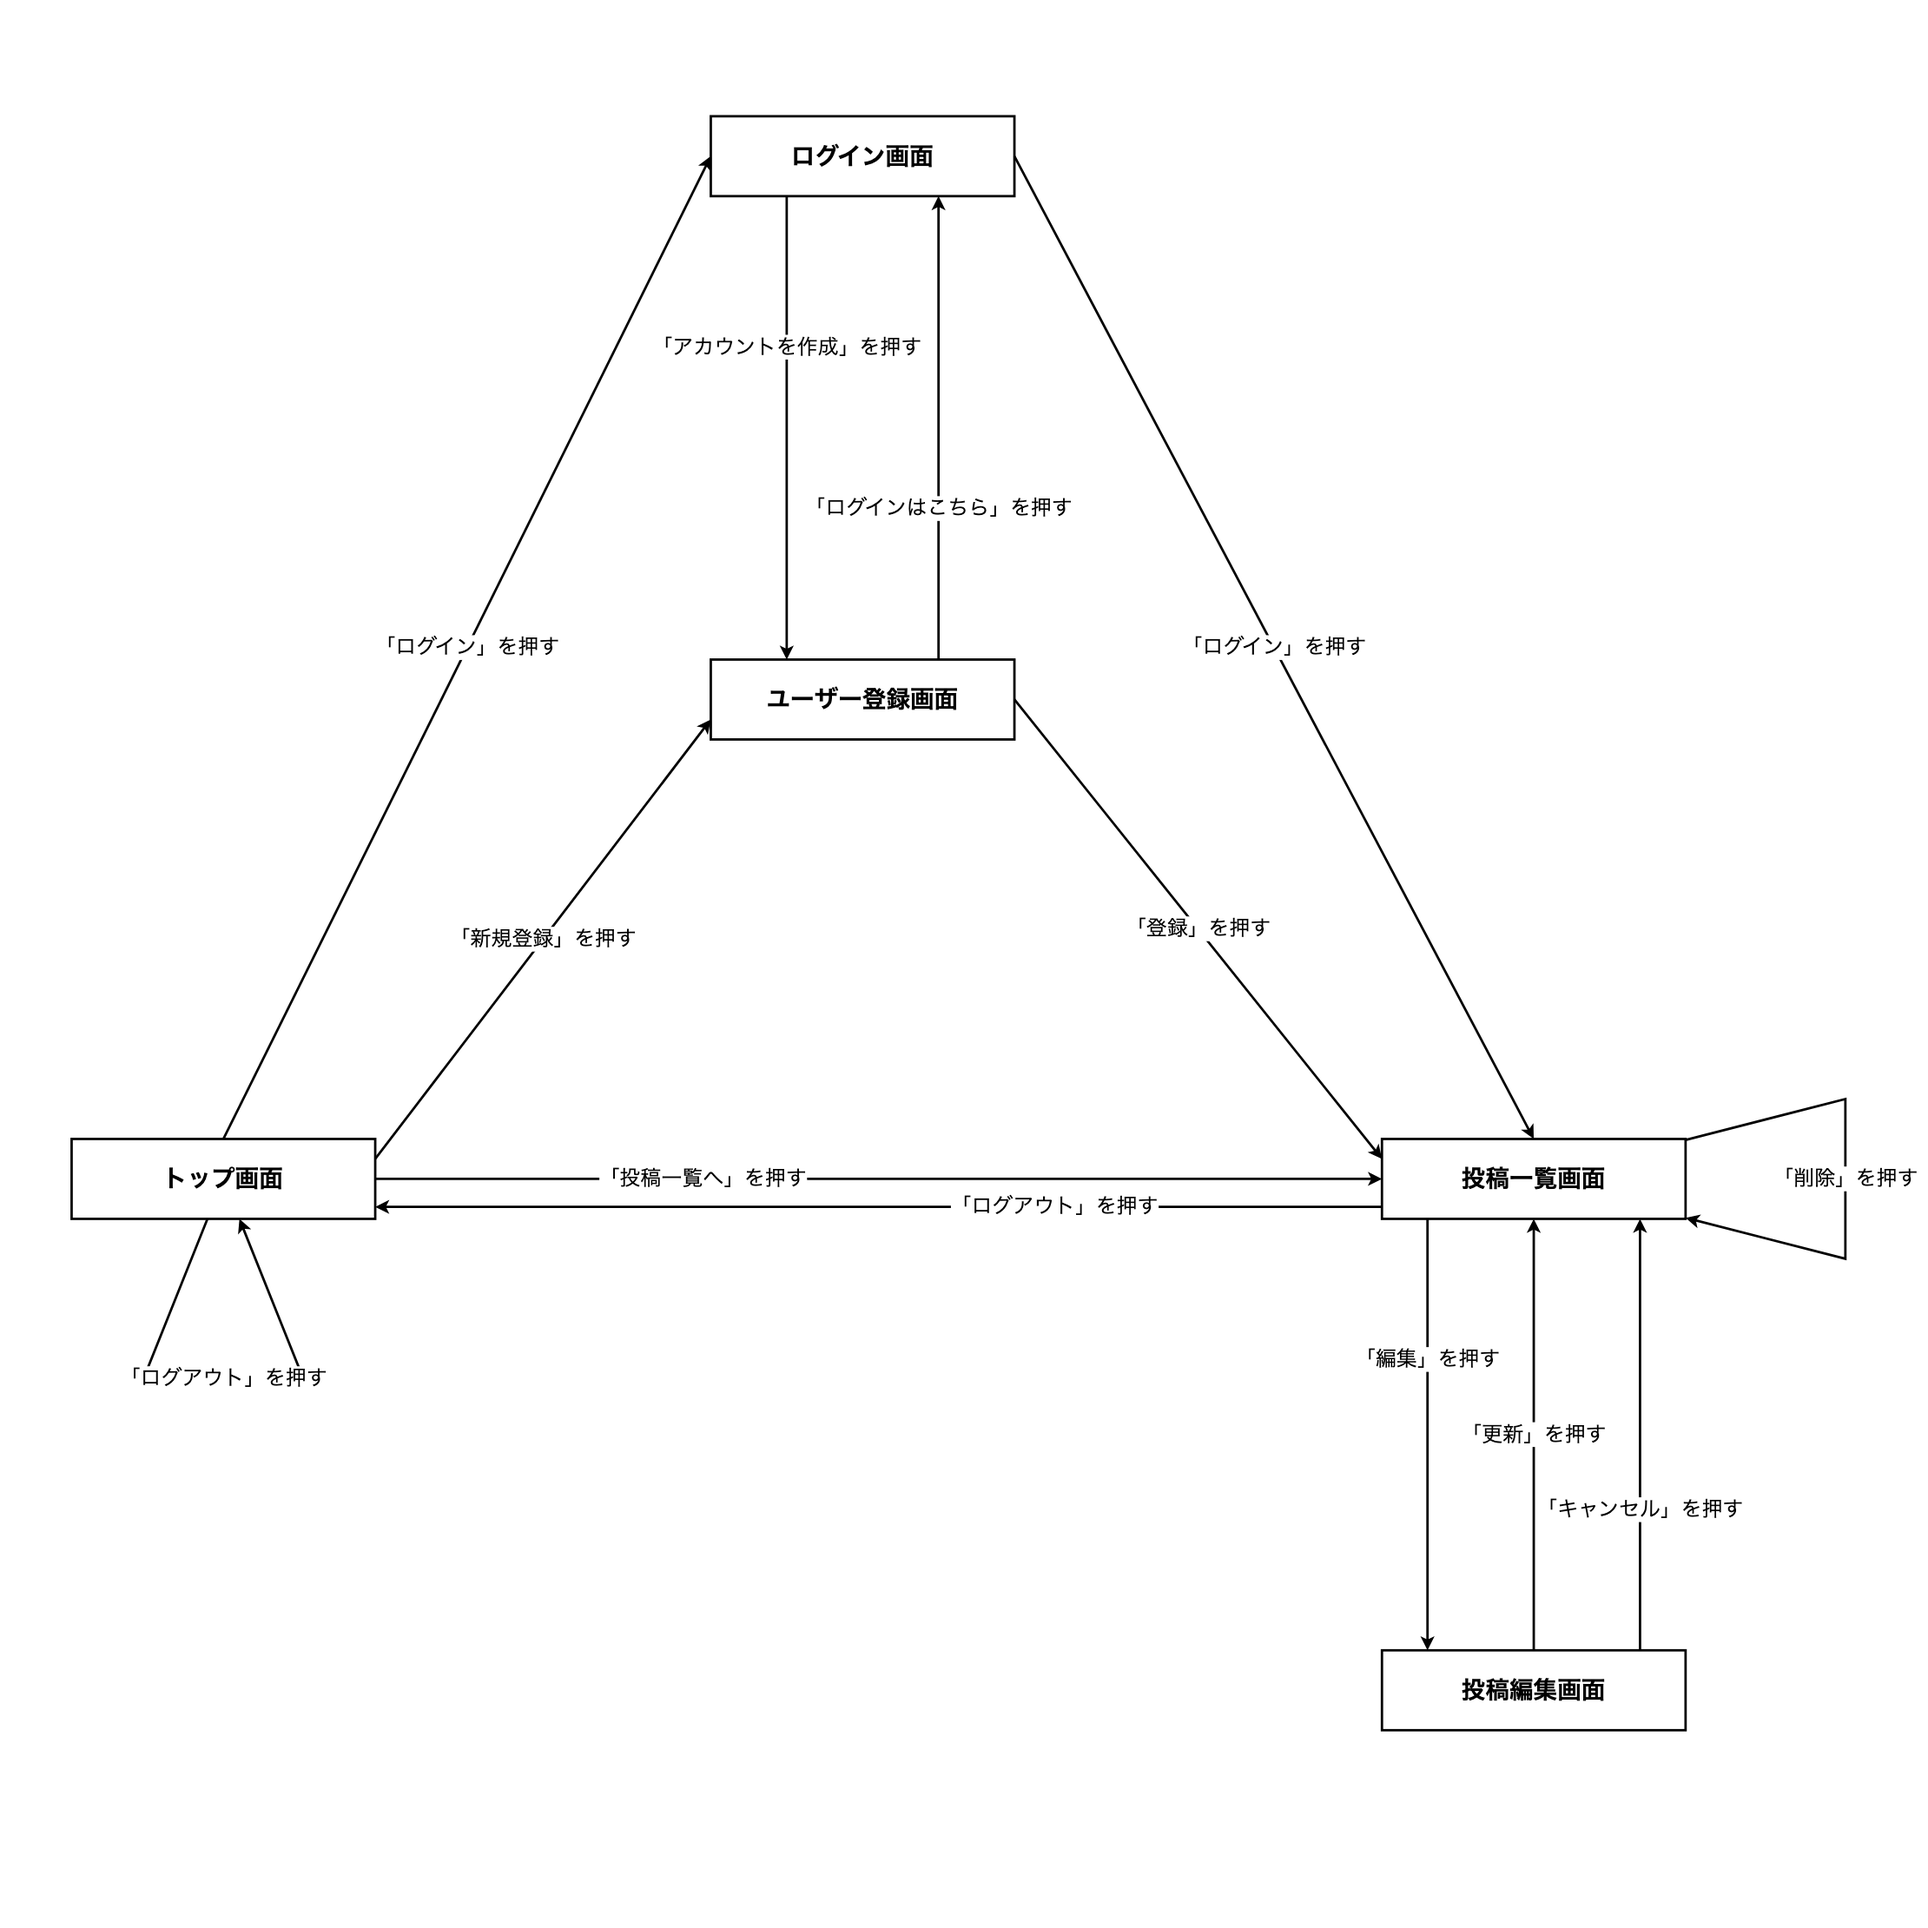
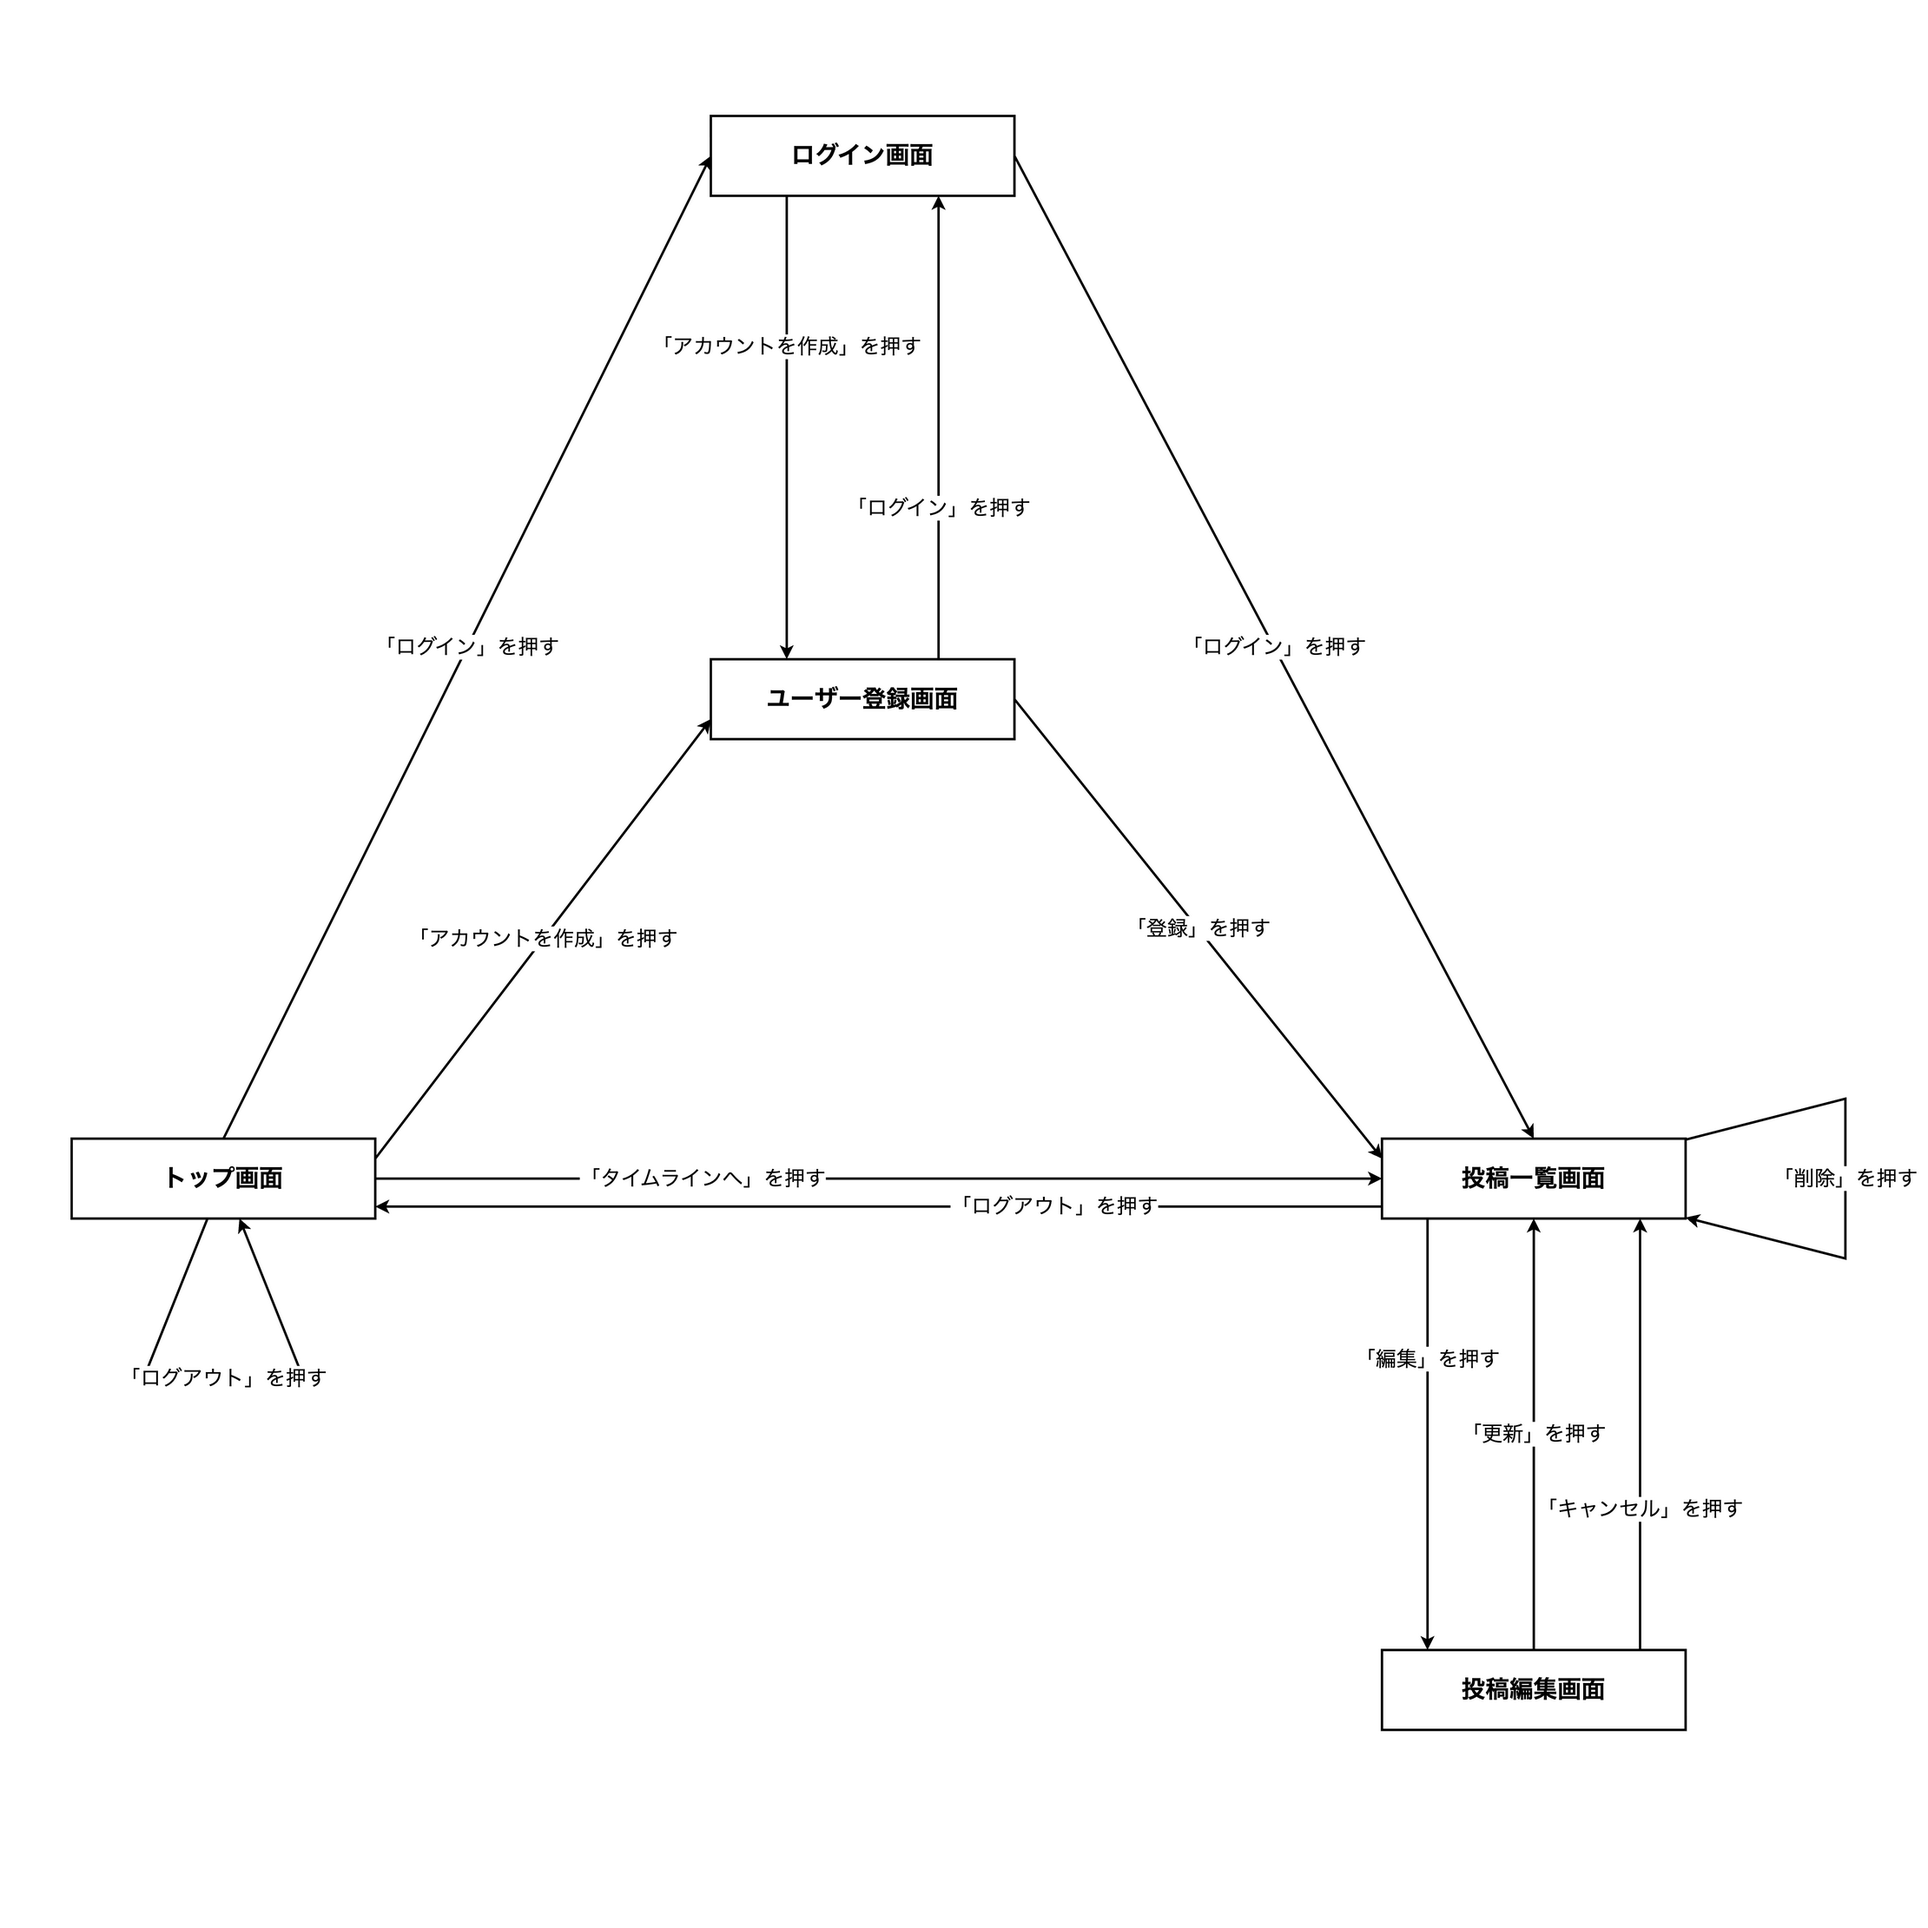
13-3-2: 解答例のボタン文字を実物に合わせ、form actionと送信後の行き先の違いを補足
- 答え合わせ表と解答例の図（drawio・PNG）の3か所を、スターターキットのBladeの文字に合わせる
  （新規登録→アカウントを作成、投稿一覧へ→タイムラインへ、ログインはこちら→ログイン）
- form の action は送り先で、送信後の行き先は fortify.php の home で決まることを2文で補足

diff --git a/curriculums/tutorial-13: システム設計を学ぼう📐/chapter-3: 画面設計/13-3-2_画面遷移図.md b/curriculums/tutorial-13: システム設計を学ぼう📐/chapter-3: 画面設計/13-3-2_画面遷移図.md
@@ -96,6 +96,8 @@
 
 Fortifyの設定ファイルにある、この1行で決まっています。`/posts` は投稿一覧画面です。
 
+ログイン画面とユーザー登録画面の `<form>` には、`action="{{ route('login') }}"` のように行き先らしきものが書かれています。これは入力した内容の**送り先**で、送ったあとに映る画面ではありません。送ったあとの行き先は、上の1行で読みます。
+
 **更新と削除が終わったあとの行き先**
 
 ```php
@@ -150,10 +152,10 @@ git push origin main
 
 | 画面 | 押せるところ | 行き先 |
 |:-----|:-------------|:-------|
-| トップ画面（ログイン前） | 「ログイン」・「新規登録」 | ログイン画面・ユーザー登録画面 |
-| トップ画面（ログイン後） | 「投稿一覧へ」・「ログアウト」 | 投稿一覧画面・トップ画面 |
+| トップ画面（ログイン前） | 「ログイン」・「アカウントを作成」 | ログイン画面・ユーザー登録画面 |
+| トップ画面（ログイン後） | 「タイムラインへ」・「ログアウト」 | 投稿一覧画面・トップ画面 |
 | ログイン画面 | 「ログイン」・「アカウントを作成」 | 投稿一覧画面・ユーザー登録画面 |
-| ユーザー登録画面 | 「登録」・「ログインはこちら」 | 投稿一覧画面・ログイン画面 |
+| ユーザー登録画面 | 「登録」・「ログイン」 | 投稿一覧画面・ログイン画面 |
 | 投稿一覧画面 | 「編集」・「削除」・「ログアウト」 | 投稿編集画面・投稿一覧画面・トップ画面 |
 | 投稿編集画面 | 「更新」・「キャンセル」 | 投稿一覧画面・投稿一覧画面 |
 
